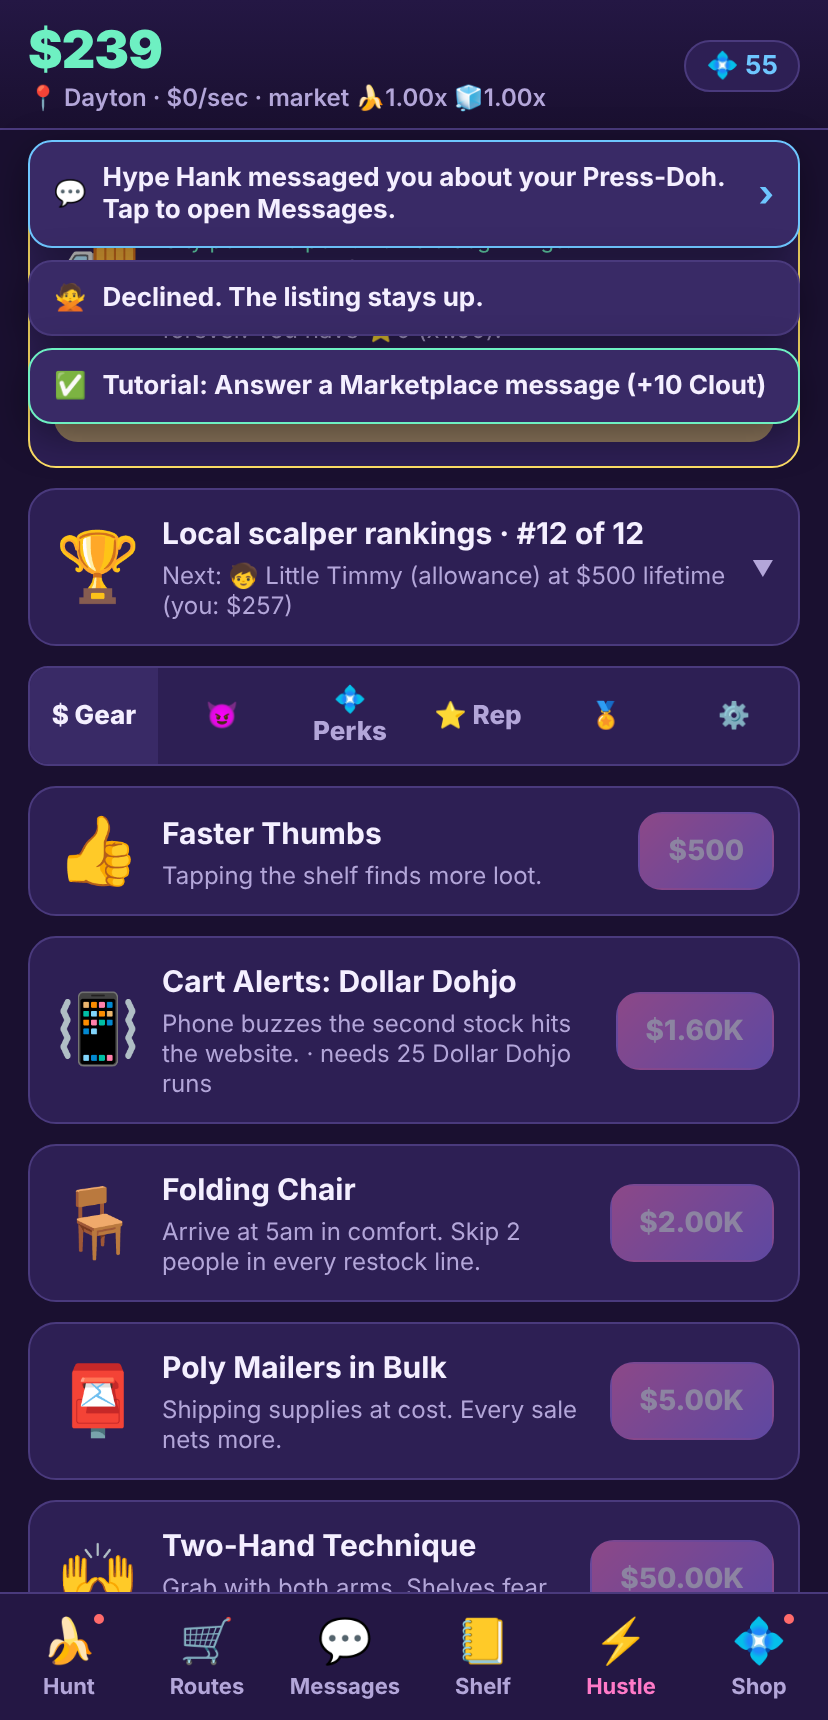
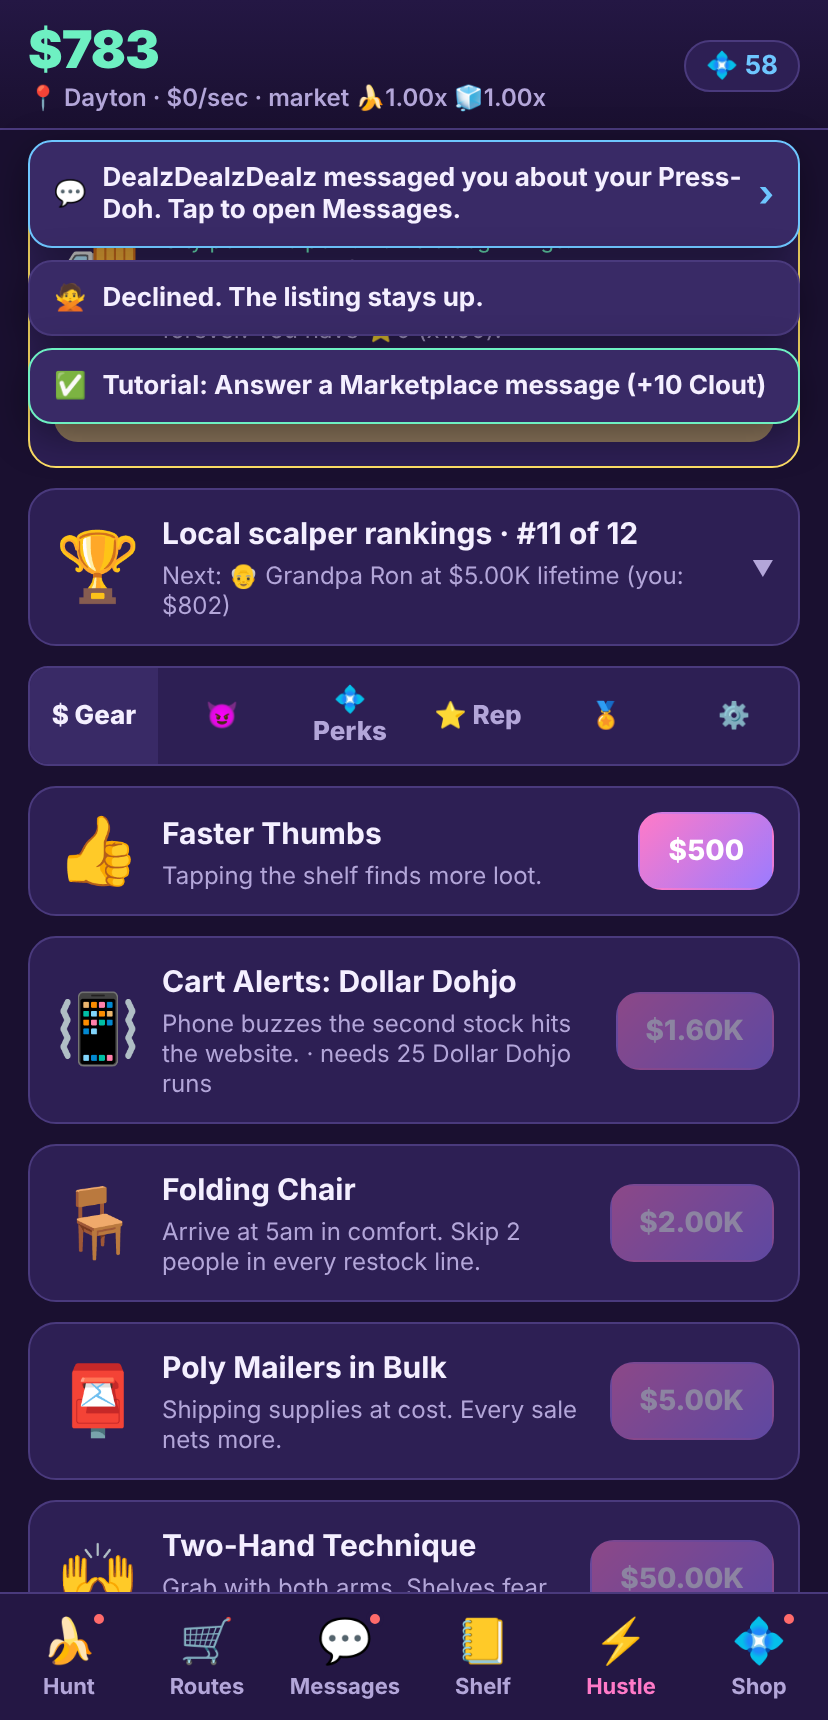
Scalping Squishies: offers are quantity times a believable unit price
Every buyer message now states qty x unit (payout unchanged, carried by
quantity). Lowballers offer under retail, fair buyers and ghosts around
your asking price, sneaker bros above it, scammers 3x to 6x. The offer
pill shows the breakdown. Templates rewritten; stale offers without the
new fields are dropped on load; tests cover the price bands.

Claude-Session: https://claude.ai/code/session_01MZnGvyVSyAsA5yFMotXPV8

diff --git a/scalping-squishies/src/engine/data/offers.ts b/scalping-squishies/src/engine/data/offers.ts
@@ -12,33 +12,33 @@ export const BUYER_NAMES = [
 
 export const OFFER_TEMPLATES: Record<OfferKind, string[]> = {
   fair: [
-    'Hi! Is the {item} still available? I can do {price} and pick up today.',
-    'I\'ll take the {item} for {price}. Cash, your location, no games.',
-    'My daughter has been looking for a {item} everywhere. {price} work?',
-    'Saw your {item} listing. {price}, I can meet at the Bullseye lot after work.',
-    'Been hunting a {item} for months. {price} and I\'ll leave a 5 star review.',
+    'Hi! Is the {item} still available? I\'ll take {qty} at {unit} each ({price} total), pick up today.',
+    '{qty} × {item} at {unit} each. {price} cash, your location, no games.',
+    'My daughter has been looking for a {item} everywhere. I\'ll take {qty} at {unit}, {price} total. Work?',
+    'Saw your {item} listing. {unit} each for {qty} of them, I can meet at the Bullseye lot after work.',
+    'Been hunting a {item} for months. {qty} at {unit} ({price}) and I\'ll leave a 5 star review.',
   ],
   lowball: [
-    'would u take {price} for the {item}? its only {retail} at the store',
-    '{price} cash rn for the {item}. firm. lmk',
-    'I can do {price} for the {item}, I\'m literally 2 min away',
-    'my kid wants the {item} but im not paying scalper prices. {price}?',
-    'hey is the {item} available? ill give u {price} and a ride to the store lol',
-    '{price}. take it or leave it. (for the {item})',
+    'would u take {unit} each for {qty} × {item}? its only {retail} at the store',
+    '{unit} a piece for the {item}, I\'ll take {qty}. firm. lmk',
+    'I can do {unit} each for {qty} of the {item}, I\'m literally 2 min away',
+    'my kid wants the {item} but im not paying scalper prices. {unit} each, I\'ll take {qty}?',
+    'hey is the {item} available? ill give u {unit} each for {qty} and a ride to the store lol',
+    '{unit} each. take it or leave it. (for {qty} of the {item})',
   ],
   scam: [
-    'I\'ll pay {price} for the {item} plus extra for shipping. My courier will pick it up. Send your email for the Zelle invoice.',
-    'Interested in the {item}. I\'m out of town but I\'ll send {price} via Friends & Family. Just need you to confirm with this 6-digit code first.',
-    'Will pay {price} for the {item} sight unseen. Please ship to my "son" at this PO box. Payment pending until you mark it shipped.',
-    'Hi dear, I want the {item} for {price} as a surprise gift. I have sent a cheque for more than the amount, please refund the difference.',
-    'Buying the {item} for {price}. I overpaid on PayPal by accident, can you Venmo back the extra right away?',
+    'I\'ll pay {unit} each for {qty} × {item} plus extra for shipping. My courier will pick it up. Send your email for the Zelle invoice.',
+    'Interested in {qty} × {item} at {unit} each. I\'m out of town but I\'ll send {price} via Friends & Family. Just need you to confirm with this 6-digit code first.',
+    'Will pay {unit} each for {qty} of the {item} sight unseen. Please ship to my "son" at this PO box. Payment pending until you mark it shipped.',
+    'Hi dear, I want {qty} × {item} for {price} as a surprise gift. I have sent a cheque for more than the amount, please refund the difference.',
+    'Buying {qty} of the {item} at {unit}. I overpaid on PayPal by accident, can you Venmo back the extra right away?',
   ],
   ghost: [
     'Is this available?',
     'is the {item} still available',
-    'Is this still available? I can pick up tomorrow for {price}',
+    'Is this still available? I can pick up tomorrow, {qty} at {unit} ok?',
     'hi is this available',
-    'still available?? {price} ok?',
+    'still available?? {unit} each for {qty} ok?',
   ],
   trade: [
     'No cash but I\'ll trade you for the {item}. Got a sealed one from my collection.',
@@ -46,11 +46,11 @@ export const OFFER_TEMPLATES: Record<OfferKind, string[]> = {
     'Would you do a trade for the {item}? Got a doubles bin, pick anything.',
   ],
   sneakerbro: [
-    'Yo what\'s the lowest on the {item}? It\'s at {price} on StockyX rn. Cash app ready. Also trade for size 10 retros?',
-    'Bro. {item}. {price}. Deadstock? Still in the bag? I need pics of the tag with today\'s date.',
-    'Copped 40 pairs of Pandas last year, now I\'m on dough. {price} for the {item}, I\'ll be there in the Civic.',
-    'Legit check on the {item}? If it passes I\'ll do {price}. My guy says the font looks off but my guy says that about everything.',
-    'The chart says {item} is up 12% this week. {price}, I\'m buying the dip bro.',
+    'Yo what\'s the lowest on the {item}? It\'s at {unit} on StockyX rn, I\'ll take {qty}. Cash app ready. Also trade for size 10 retros?',
+    'Bro. {item}. {qty} at {unit} each. Deadstock? Still in the bag? I need pics of the tag with today\'s date.',
+    'Copped 40 pairs last year, now I\'m on dough. {unit} each for {qty} × {item}, I\'ll be there in the Civic.',
+    'Legit check on the {item}? If it passes I\'ll do {unit} each for {qty}. My guy says the font looks off but my guy says that about everything.',
+    'The chart says {item} is up 12% this week. {qty} at {unit}, I\'m buying the dip bro.',
   ],
   karen: [
     'You people are the reason my kids can\'t find a {item} at the store. Hope you\'re proud. Reported.',

diff --git a/scalping-squishies/src/engine/deals.ts b/scalping-squishies/src/engine/deals.ts
@@ -54,12 +54,23 @@ export function makeOffer(s: GameState, m: Modifiers, now: number, rand: () => n
   const ips = Math.max(1, incomePerSecond(s, m, true));
   const [lo, hi] = KIND_SECONDS[kind];
   const secs = lo + rand() * (hi - lo);
-  const amount = kind === 'karen' || kind === 'trade' ? 0 : Math.max(item.retail * 0.5, ips * secs * m.offerValue * pricing.value * s.hype[item.family]);
-  const tpl = OFFER_TEMPLATES[kind];
   const ask = item.retail * ASK_MULT[s.pricing ?? 'fair'];
+  // The payout is sized to income; the fiction carries the scale through
+  // quantity. Unit prices stay believable next to retail and your ask:
+  // lowballers under retail, fair buyers around the ask, bros above it,
+  // scammers absurdly above it (that is the tell).
+  const target = kind === 'karen' || kind === 'trade' ? 0 : Math.max(item.retail * 0.5, ips * secs * m.offerValue * pricing.value * s.hype[item.family]);
+  const unitMult = kind === 'lowball' ? 0.55 + rand() * 0.35 : kind === 'sneakerbro' ? 1.2 + rand() * 0.5 : kind === 'scam' ? 3 + rand() * 3 : 0.9 + rand() * 0.25;
+  const unitRaw = kind === 'lowball' ? item.retail * unitMult : ask * unitMult;
+  const unit = target > 0 ? Math.max(0.25, Math.round(unitRaw * 4) / 4) : 0;
+  const qty = target > 0 ? Math.max(1, Math.round(target / unit)) : 0;
+  const amount = qty * unit;
+  const tpl = OFFER_TEMPLATES[kind];
   const message = tpl[Math.floor(rand() * tpl.length)]
     .replace(/\{item\}/g, item.name)
     .replace(/\{price\}/g, formatCash(amount))
+    .replace(/\{unit\}/g, formatCash(unit))
+    .replace(/\{qty\}/g, qty.toLocaleString())
     .replace(/\{ask\}/g, formatCash(ask))
     .replace(/\{retail\}/g, formatCash(item.retail));
   const BROS = ['Hype Hank', 'DeadstockDrew', 'SZ10_Civic', 'kicks2kubes', 'Bro (matching hoodie)'];
@@ -72,6 +83,8 @@ export function makeOffer(s: GameState, m: Modifiers, now: number, rand: () => n
     itemId: item.id,
     message,
     amount,
+    qty,
+    unit,
     flagged: kind === 'scam' && m.scamRadar,
     expiresAt: now + OFFER_TTL_SECONDS * 1000,
   };

diff --git a/scalping-squishies/tests/deals.test.ts b/scalping-squishies/tests/deals.test.ts
@@ -135,6 +135,18 @@ describe('message text', () => {
         expect(o.message).not.toMatch(/\{\w+\}/);
       }
     }
+    // Offers decompose into qty x unit, and unit prices sit where the fiction says.
+    s.pricing = 'fair';
+    for (let i = 0; i < 400; i++) {
+      const o = makeOffer(s, m, T0, rng);
+      if (o.amount === 0) continue;
+      expect(o.qty * o.unit).toBeCloseTo(o.amount, 6);
+      const ask = 6 * 1.5;
+      if (o.kind === 'lowball') expect(o.unit).toBeLessThan(6);
+      if (o.kind === 'fair' || o.kind === 'ghost') { expect(o.unit).toBeGreaterThan(ask * 0.85); expect(o.unit).toBeLessThan(ask * 1.2); }
+      if (o.kind === 'sneakerbro') expect(o.unit).toBeGreaterThan(ask * 1.15);
+      if (o.kind === 'scam') expect(o.unit).toBeGreaterThan(ask * 2.9);
+    }
     s.pricing = 'insane';
     const karen = offerOfKind('karen', s).o;
     if (karen.message.includes('asking')) expect(karen.message).toContain('$60'); // 10x the $6 Kube

diff --git a/scalping-squishies/src/ui/DealsTab.tsx b/scalping-squishies/src/ui/DealsTab.tsx
@@ -66,7 +66,7 @@ export function DealsTab() {
                 <div className="row" style={{ gap: 6, marginTop: 4 }}>
                   {o.flagged && <span className="tag grail">🚩 scam radar</span>}
                   {showTag && !(o.kind === 'scam') && <span className={`tag ${tag.cls}`}>{tag.label}</span>}
-                  {o.amount > 0 && <span className="pill" style={{ color: 'var(--mint)' }}>{formatCash(o.amount)}</span>}
+                  {o.amount > 0 && <span className="pill" style={{ color: 'var(--mint)' }}>{formatCash(o.amount)} <span className="small" style={{ color: 'var(--muted)' }}>· {o.qty.toLocaleString()} × {formatCash(o.unit)}</span></span>}
                 </div>
               </div>
             </div>

diff --git a/scalping-squishies/src/engine/state.ts b/scalping-squishies/src/engine/state.ts
@@ -100,7 +100,7 @@ export function migrate(raw: unknown, now = Date.now()): GameState {
     stats: { ...fresh.stats, ...(s.stats ?? {}) },
     settings: { ...fresh.settings, ...(s.settings ?? {}) },
     adsToday: s.adsToday ?? fresh.adsToday,
-    offers: Array.isArray(s.offers) ? s.offers : [],
+    offers: Array.isArray(s.offers) ? s.offers.filter((o) => typeof o.qty === 'number') : [],
     fakes: Array.isArray(s.fakes) ? s.fakes : [],
     restockReadyAt: s.restockReadyAt ?? {},
     tutorialDone: Array.isArray(s.tutorialDone) ? s.tutorialDone : [],

diff --git a/scalping-squishies/src/engine/types.ts b/scalping-squishies/src/engine/types.ts
@@ -113,8 +113,11 @@ export interface Offer {
   avatar: string;
   itemId: string;
   message: string;
-  /** Cash offered (0 for karen/trade). */
+  /** Cash offered in total (0 for karen/trade). */
   amount: number;
+  /** The deal as the buyer phrases it: qty units at unit price. amount = qty * unit. */
+  qty: number;
+  unit: number;
   /** Whether the UI should show the scam flag (Scam Radar owned). */
   flagged: boolean;
   expiresAt: number;

diff --git a/scalping-squishies/docs/game-design.md b/scalping-squishies/docs/game-design.md
@@ -74,6 +74,13 @@ they matter at every stage:
 | Karen | 8 | nothing | clap back: +10 pass XP, +6 Heat | same | block |
 | Sneaker bro | 8 | 20-40s | 60% paid, 40% "the chart dipped" | 60% paid x1.2 | nothing |
 
+Every offer is phrased as a quantity at a unit price (payout = qty x unit).
+Unit prices sit where the fiction says: lowballers 55% to 90% of retail,
+fair buyers and ghosts 90% to 115% of your ask, sneaker bros 120% to
+170%, scammers 3x to 6x (the tell). The income-sized payout is carried by
+the quantity, so late-game you are a volume dealer, not a person selling
+one Kube for $12 million.
+
 Channels: FleaBay (+10% value), Mercarry (+15% rate), WhatNow Live (+15%
 rate), Hype Mode (+10% value), StockyX (+10% value), Scam Radar (flags scams), Goods &
 Services Only (scams cost nothing and stop appearing), UV Tag Light (no
